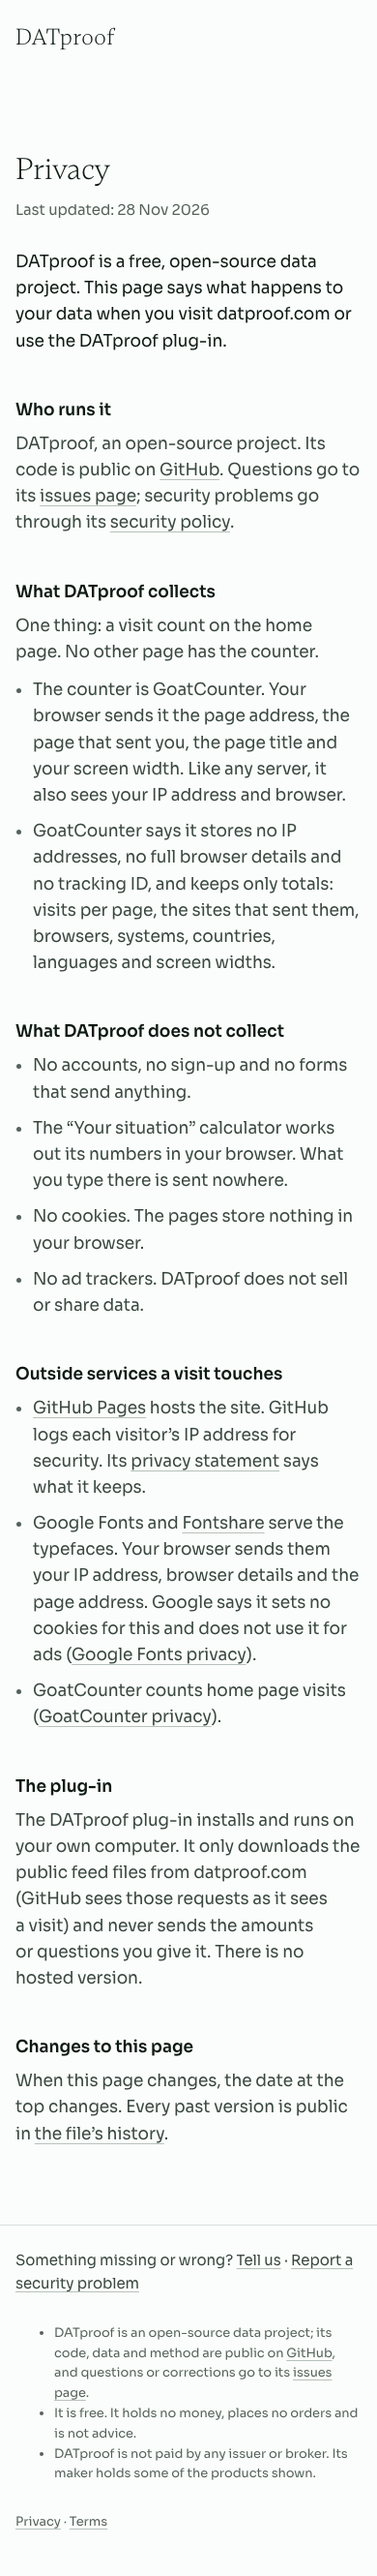
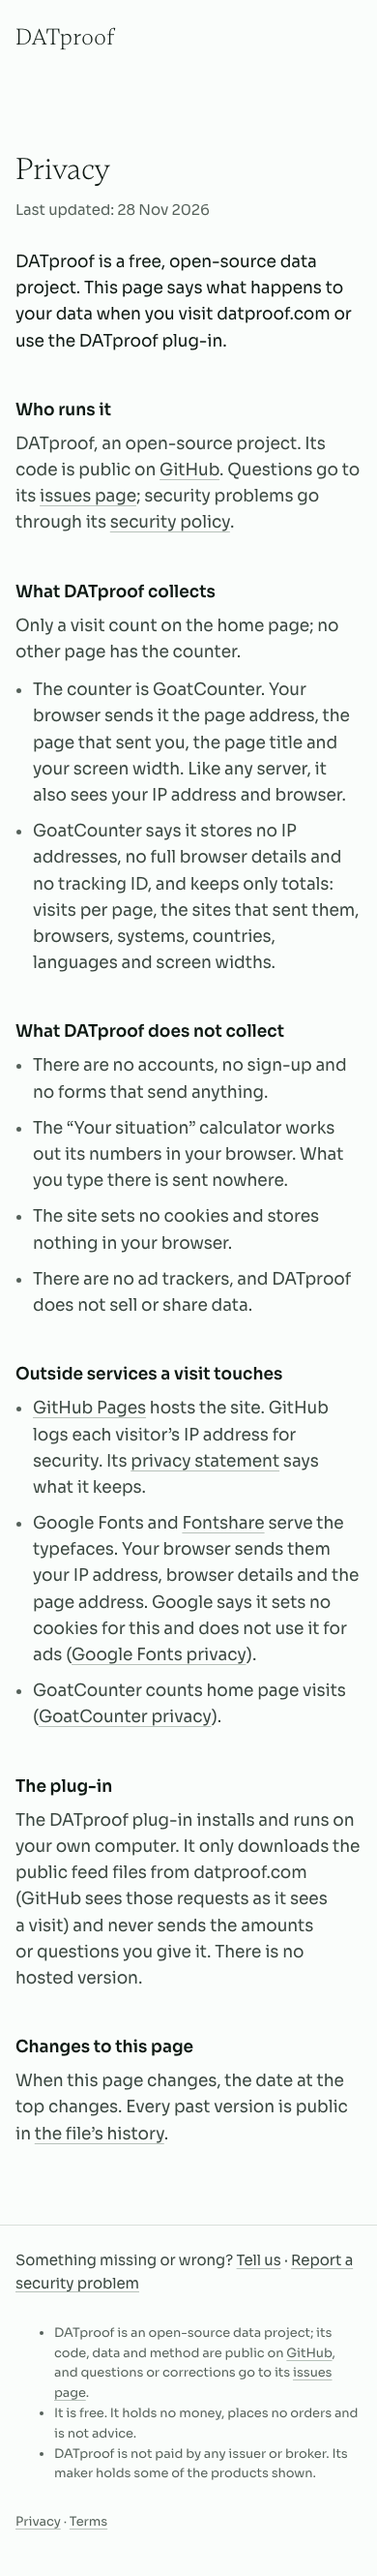
Privacy wording plainer; Markdown twins of both pages in llms.txt and index.md
- Four privacy lines rewritten as full sentences.
- llms.txt and the home page's twin now list each page with its Markdown twin;
  the test checks all four addresses and is planted to fail once.
- Screenshots refreshed, plus the privacy page on a phone in dark mode.

diff --git a/site/privacy/index.html b/site/privacy/index.html
@@ -38,7 +38,7 @@
   <h1>Privacy</h1>
   <p class="upd">Last updated: <time datetime="2026-11-28">28 Nov 2026</time></p>
   <p class="lede">DATproof is a free, open-source data project. This page says what happens to your data when you visit datproof.com or use the DATproof plug-in.</p>
-  <h2>Who runs it</h2><p>DATproof, an open-source project. Its code is public on <a href="https://github.com/lucascashwell3-ai/datproof" rel="noopener">GitHub</a>. Questions go to its <a href="https://github.com/lucascashwell3-ai/datproof/issues" rel="noopener">issues page</a>; security problems go through its <a href="https://github.com/lucascashwell3-ai/datproof/security/policy" rel="noopener">security policy</a>.</p><h2>What DATproof collects</h2><p>One thing: a visit count on the home page. No other page has the counter.</p><ul><li>The counter is GoatCounter. Your browser sends it the page address, the page that sent you, the page title and your screen width. Like any server, it also sees your IP address and browser.</li><li>GoatCounter says it stores no IP addresses, no full browser details and no tracking ID, and keeps only totals: visits per page, the sites that sent them, browsers, systems, countries, languages and screen widths.</li></ul><h2>What DATproof does not collect</h2><ul><li>No accounts, no sign-up and no forms that send anything.</li><li>The “Your situation” calculator works out its numbers in your browser. What you type there is sent nowhere.</li><li>No cookies. The pages store nothing in your browser.</li><li>No ad trackers. DATproof does not sell or share data.</li></ul><h2>Outside services a visit touches</h2><ul><li><a href="https://docs.github.com/en/pages/getting-started-with-github-pages/what-is-github-pages" rel="noopener">GitHub Pages</a> hosts the site. GitHub logs each visitor’s IP address for security. Its <a href="https://docs.github.com/en/site-policy/privacy-policies/github-general-privacy-statement" rel="noopener">privacy statement</a> says what it keeps.</li><li>Google Fonts and <a href="https://www.fontshare.com/" rel="noopener">Fontshare</a> serve the typefaces. Your browser sends them your IP address, browser details and the page address. Google says it sets no cookies for this and does not use it for ads (<a href="https://fonts.google.com/faq#privacy" rel="noopener">Google Fonts privacy</a>).</li><li>GoatCounter counts home page visits (<a href="https://www.goatcounter.com/privacy" rel="noopener">GoatCounter privacy</a>).</li></ul><h2>The plug-in</h2><p>The DATproof plug-in installs and runs on your own computer. It only downloads the public feed files from datproof.com (GitHub sees those requests as it sees a visit) and never sends the amounts or questions you give it. There is no hosted version.</p><h2>Changes to this page</h2><p>When this page changes, the date at the top changes. Every past version is public in <a href="https://github.com/lucascashwell3-ai/datproof/commits/main/site/privacy/index.md" rel="noopener">the file’s history</a>.</p>
+  <h2>Who runs it</h2><p>DATproof, an open-source project. Its code is public on <a href="https://github.com/lucascashwell3-ai/datproof" rel="noopener">GitHub</a>. Questions go to its <a href="https://github.com/lucascashwell3-ai/datproof/issues" rel="noopener">issues page</a>; security problems go through its <a href="https://github.com/lucascashwell3-ai/datproof/security/policy" rel="noopener">security policy</a>.</p><h2>What DATproof collects</h2><p>Only a visit count on the home page; no other page has the counter.</p><ul><li>The counter is GoatCounter. Your browser sends it the page address, the page that sent you, the page title and your screen width. Like any server, it also sees your IP address and browser.</li><li>GoatCounter says it stores no IP addresses, no full browser details and no tracking ID, and keeps only totals: visits per page, the sites that sent them, browsers, systems, countries, languages and screen widths.</li></ul><h2>What DATproof does not collect</h2><ul><li>There are no accounts, no sign-up and no forms that send anything.</li><li>The “Your situation” calculator works out its numbers in your browser. What you type there is sent nowhere.</li><li>The site sets no cookies and stores nothing in your browser.</li><li>There are no ad trackers, and DATproof does not sell or share data.</li></ul><h2>Outside services a visit touches</h2><ul><li><a href="https://docs.github.com/en/pages/getting-started-with-github-pages/what-is-github-pages" rel="noopener">GitHub Pages</a> hosts the site. GitHub logs each visitor’s IP address for security. Its <a href="https://docs.github.com/en/site-policy/privacy-policies/github-general-privacy-statement" rel="noopener">privacy statement</a> says what it keeps.</li><li>Google Fonts and <a href="https://www.fontshare.com/" rel="noopener">Fontshare</a> serve the typefaces. Your browser sends them your IP address, browser details and the page address. Google says it sets no cookies for this and does not use it for ads (<a href="https://fonts.google.com/faq#privacy" rel="noopener">Google Fonts privacy</a>).</li><li>GoatCounter counts home page visits (<a href="https://www.goatcounter.com/privacy" rel="noopener">GoatCounter privacy</a>).</li></ul><h2>The plug-in</h2><p>The DATproof plug-in installs and runs on your own computer. It only downloads the public feed files from datproof.com (GitHub sees those requests as it sees a visit) and never sends the amounts or questions you give it. There is no hosted version.</p><h2>Changes to this page</h2><p>When this page changes, the date at the top changes. Every past version is public in <a href="https://github.com/lucascashwell3-ai/datproof/commits/main/site/privacy/index.md" rel="noopener">the file’s history</a>.</p>
 </main>
 
 <footer class="wrap foot">

diff --git a/datproof_feed/pages.py b/datproof_feed/pages.py
@@ -1391,7 +1391,8 @@ Something missing or wrong? Tell us: {FEEDBACK}
 
 Security problem? Report it privately: {SECURITY}
 
-Privacy: {BASE}/privacy/ · Terms: {BASE}/terms/
+- Privacy: {BASE}/privacy/ (Markdown: {BASE}/privacy/index.md)
+- Terms: {BASE}/terms/ (Markdown: {BASE}/terms/index.md)
 """
 
 
@@ -1455,8 +1456,8 @@ where it sits now, and returns the same rows for STRC, SATA and SATS, plus broke
 
 ## About
 
-- {BASE}/privacy/ : what a visit sends, and to whom.
-- {BASE}/terms/ : terms of use. Not advice.
+- {BASE}/privacy/ : what a visit sends, and to whom. Markdown: {BASE}/privacy/index.md
+- {BASE}/terms/ : terms of use. Not advice. Markdown: {BASE}/terms/index.md
 """
 
 
@@ -1480,18 +1481,18 @@ PRIVACY = ("privacy", "Privacy", "What a visit to DATproof sends, and to whom.",
              [f"DATproof, an open-source project. Its code is public on [GitHub]({REPO}). Questions go to its "
               f"[issues page]({ISSUES}); security problems go through its [security policy]({SECURITY})."]),
             ("What DATproof collects",
-             ["One thing: a visit count on the home page. No other page has the counter.",
+             ["Only a visit count on the home page; no other page has the counter.",
               ["The counter is GoatCounter. Your browser sends it the page address, the page that sent you, the page "
                "title and your screen width. Like any server, it also sees your IP address and browser.",
                "GoatCounter says it stores no IP addresses, no full browser details and no tracking ID, and keeps "
                "only totals: visits per page, the sites that sent them, browsers, systems, countries, languages "
                "and screen widths."]]),
             ("What DATproof does not collect",
-             [["No accounts, no sign-up and no forms that send anything.",
+             [["There are no accounts, no sign-up and no forms that send anything.",
                "The “Your situation” calculator works out its numbers in your browser. What you type there "
                "is sent nowhere.",
-               "No cookies. The pages store nothing in your browser.",
-               "No ad trackers. DATproof does not sell or share data."]]),
+               "The site sets no cookies and stores nothing in your browser.",
+               "There are no ad trackers, and DATproof does not sell or share data."]]),
             ("Outside services a visit touches",
              [["[GitHub Pages](https://docs.github.com/en/pages/getting-started-with-github-pages/what-is-github-pages) "
                "hosts the site. GitHub logs each visitor’s IP address for security. Its "

diff --git a/tests/test_privacy_terms.py b/tests/test_privacy_terms.py
@@ -37,10 +37,10 @@ def problems(files: dict[str, str]) -> list[str]:
         for twin in ("", "index.md"):
             if f"<loc>{HOME}{p}/{twin}</loc>" not in files["sitemap.xml"]:
                 out.append(f"sitemap lacks {p}/{twin}")
-        if f"{HOME}{p}/" not in files["llms.txt"]:
-            out.append(f"llms.txt lacks {p}/")
-        if f"{HOME}{p}/" not in files["index.md"]:
-            out.append(f"index.md lacks {p}/")
+        for twin in ("", "index.md"):
+            for rel in ("llms.txt", "index.md"):
+                if not re.search(rf"{re.escape(HOME + p + '/' + twin)}(\s|\)|$)", files[rel]):
+                    out.append(f"{rel} lacks {p}/{twin}")
     for rel in (f"{p}/index.html" for p in LEGAL):
         if rel in files and COUNTER.search(files[rel]):
             out.append(f"{rel} carries a counter script")
@@ -157,6 +157,11 @@ def test_planted_missing_not_advice():
 def test_planted_missing_disclosure():
     assert f"terms/index.md lacks: {pages.DISCLOSURE}" in planted(
         lambda f: f.update({"terms/index.md": f["terms/index.md"].replace(pages.DISCLOSURE, "")}))
+
+
+def test_planted_missing_twin_in_llms():
+    assert "llms.txt lacks privacy/index.md" in planted(
+        lambda f: f.update({"llms.txt": f["llms.txt"].replace(f"{HOME}privacy/index.md", "")}))
 
 
 def test_planted_overclaim():

diff --git a/site/privacy/index.md b/site/privacy/index.md
@@ -10,17 +10,17 @@ DATproof, an open-source project. Its code is public on [GitHub](https://github.
 
 ## What DATproof collects
 
-One thing: a visit count on the home page. No other page has the counter.
+Only a visit count on the home page; no other page has the counter.
 
 - The counter is GoatCounter. Your browser sends it the page address, the page that sent you, the page title and your screen width. Like any server, it also sees your IP address and browser.
 - GoatCounter says it stores no IP addresses, no full browser details and no tracking ID, and keeps only totals: visits per page, the sites that sent them, browsers, systems, countries, languages and screen widths.
 
 ## What DATproof does not collect
 
-- No accounts, no sign-up and no forms that send anything.
+- There are no accounts, no sign-up and no forms that send anything.
 - The “Your situation” calculator works out its numbers in your browser. What you type there is sent nowhere.
-- No cookies. The pages store nothing in your browser.
-- No ad trackers. DATproof does not sell or share data.
+- The site sets no cookies and stores nothing in your browser.
+- There are no ad trackers, and DATproof does not sell or share data.
 
 ## Outside services a visit touches
 

diff --git a/site/index.md b/site/index.md
@@ -179,4 +179,5 @@ Something missing or wrong? Tell us: https://github.com/lucascashwell3-ai/datpro
 
 Security problem? Report it privately: https://github.com/lucascashwell3-ai/datproof/security/policy
 
-Privacy: https://datproof.com/privacy/ · Terms: https://datproof.com/terms/
+- Privacy: https://datproof.com/privacy/ (Markdown: https://datproof.com/privacy/index.md)
+- Terms: https://datproof.com/terms/ (Markdown: https://datproof.com/terms/index.md)
